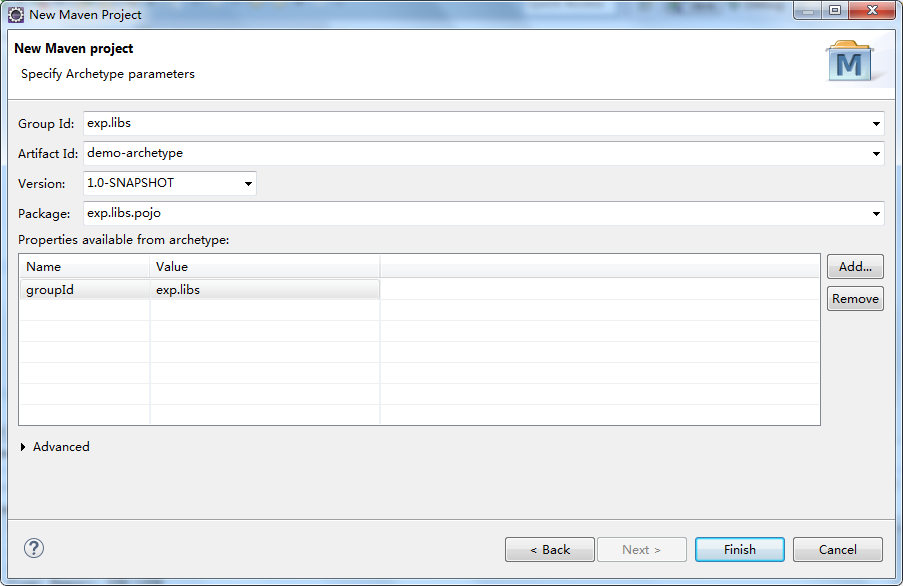
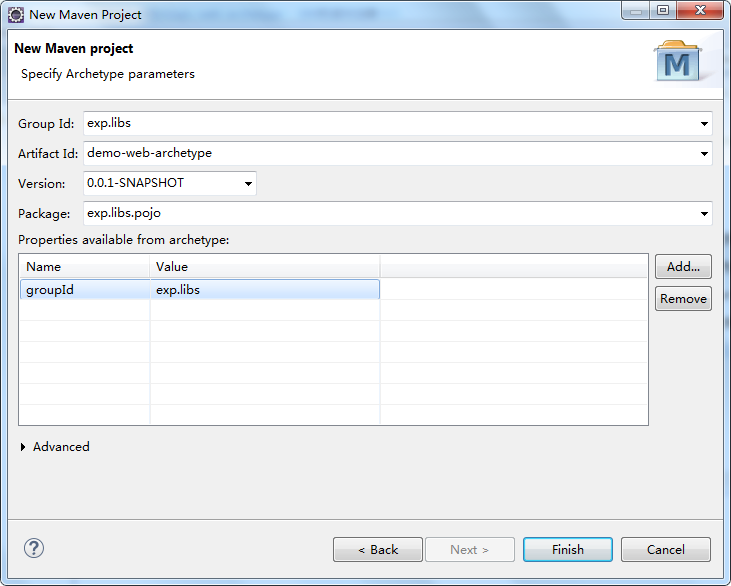
更新README

diff --git a/README.md b/README.md
@@ -4,6 +4,9 @@ Maven项目规范骨架（Web版）
 ------
 
 
+DEMO项目版本信息是1.0
+
+
 ## 运行环境
 
 　![](https://img.shields.io/badge/Maven-3.2.5%2B-brightgreen.svg)  ![](https://img.shields.io/badge/JDK-1.7%2B-brightgreen.svg)
@@ -13,12 +16,13 @@ Maven项目规范骨架（Web版）
 
 　快速创建一个规范架构的**Java Web项目（Maven版）**，使得**项目中自动内置**：
 
+- **Spring/SpringMVC架构**
 - [经验构件库](https://github.com/lyy289065406/exp-libs)：*用于快速开发的辅助包*
 - [Maven项目发布插件](https://github.com/lyy289065406/mojo-release-plugin)：*用于快速发布一个可运行应用到生产环境*
 - 混淆打包插件：*第三方插件`proguard-maven-plugin`，用于保护所发布的项目代码*
 - Ant插件：*第三方插件`maven-antrun-plugin`，用于拷贝项目配置、文档等资源到发布包*
 - 基线发布插件：*第三方插件`maven-release-plugin`，用于发布项目基线到版本库和Nexus私服*
-- **Spring/SpringMVC架构**
+
 
 
 > 此骨架只能在J2EE中使用，若在J2SE中，会因为缺少Java Web组件会报错
@@ -45,13 +49,13 @@ Maven项目规范骨架（Web版）
 - 03.　通过 `maven install` 命令安装骨架到本地 Maven Repository
 - 04.　（可选）若本地部署了 Nexus 私服，可通过 `maven deploy` 命令直接发布骨架到私服
 - 05.　新建Maven项目，并选择此骨架进行项目构件：<br/>
-![新建Maven项目](https://raw.githubusercontent.com/lyy289065406/mojo-archetype/master/doc/%E6%95%88%E6%9E%9C%E6%88%AA%E5%9B%BE/01-%E9%80%89%E6%8B%A9Maven%E9%AA%A8%E6%9E%B6.png)
+![新建Maven项目](https://raw.githubusercontent.com/lyy289065406/mojo-web-archetype/master/doc/%E6%95%88%E6%9E%9C%E6%88%AA%E5%9B%BE/01-%E9%80%89%E6%8B%A9Maven%E9%AA%A8%E6%9E%B6.png)
 - 06.　填写项目必要信息：<br/>
-![填写项目必要信息](https://raw.githubusercontent.com/lyy289065406/mojo-archetype/master/doc/%E6%95%88%E6%9E%9C%E6%88%AA%E5%9B%BE/02-%E5%A1%AB%E5%86%99%E9%A1%B9%E7%9B%AE%E4%BF%A1%E6%81%AF.png)
+![填写项目必要信息](https://raw.githubusercontent.com/lyy289065406/mojo-web-archetype/master/doc/%E6%95%88%E6%9E%9C%E6%88%AA%E5%9B%BE/02-%E5%A1%AB%E5%86%99%E9%A1%B9%E7%9B%AE%E4%BF%A1%E6%81%AF.png)
 - 07.　通过骨架所生成的项目，项目中会引用到 [`构件经验库 exp-libs`](https://github.com/lyy289065406/exp-libs) 的一些功能：<br/>
-![通过骨架所生成的项目](https://raw.githubusercontent.com/lyy289065406/mojo-archetype/master/doc/%E6%95%88%E6%9E%9C%E6%88%AA%E5%9B%BE/03-%E7%94%9F%E6%88%90%E7%9A%84%E9%A1%B9%E7%9B%AE%E6%A8%A1%E6%9D%BF.png)
+![通过骨架所生成的项目](https://raw.githubusercontent.com/lyy289065406/mojo-web-archetype/master/doc/%E6%95%88%E6%9E%9C%E6%88%AA%E5%9B%BE/03-%E7%94%9F%E6%88%90%E7%9A%84%E9%A1%B9%E7%9B%AE%E6%A8%A1%E6%9D%BF.png)
 - 08.　通过 `maven install` 在 `target` 目录直接发布可运行应用（详见[`Maven项目发布插件 mojo-release-plugin`](https://github.com/lyy289065406/mojo-release-plugin)）：<br/>
-![发布可运行项目到生产环境](https://raw.githubusercontent.com/lyy289065406/mojo-archetype/master/doc/%E6%95%88%E6%9E%9C%E6%88%AA%E5%9B%BE/04-%E5%8F%91%E5%B8%83%E9%A1%B9%E7%9B%AE.png)
+![发布可运行项目到生产环境](https://raw.githubusercontent.com/lyy289065406/mojo-web-archetype/master/doc/%E6%95%88%E6%9E%9C%E6%88%AA%E5%9B%BE/04-%E5%8F%91%E5%B8%83%E9%A1%B9%E7%9B%AE.png)
 
 
 ## 补充：通过本骨架所生成示例项目的pom.xml文件
